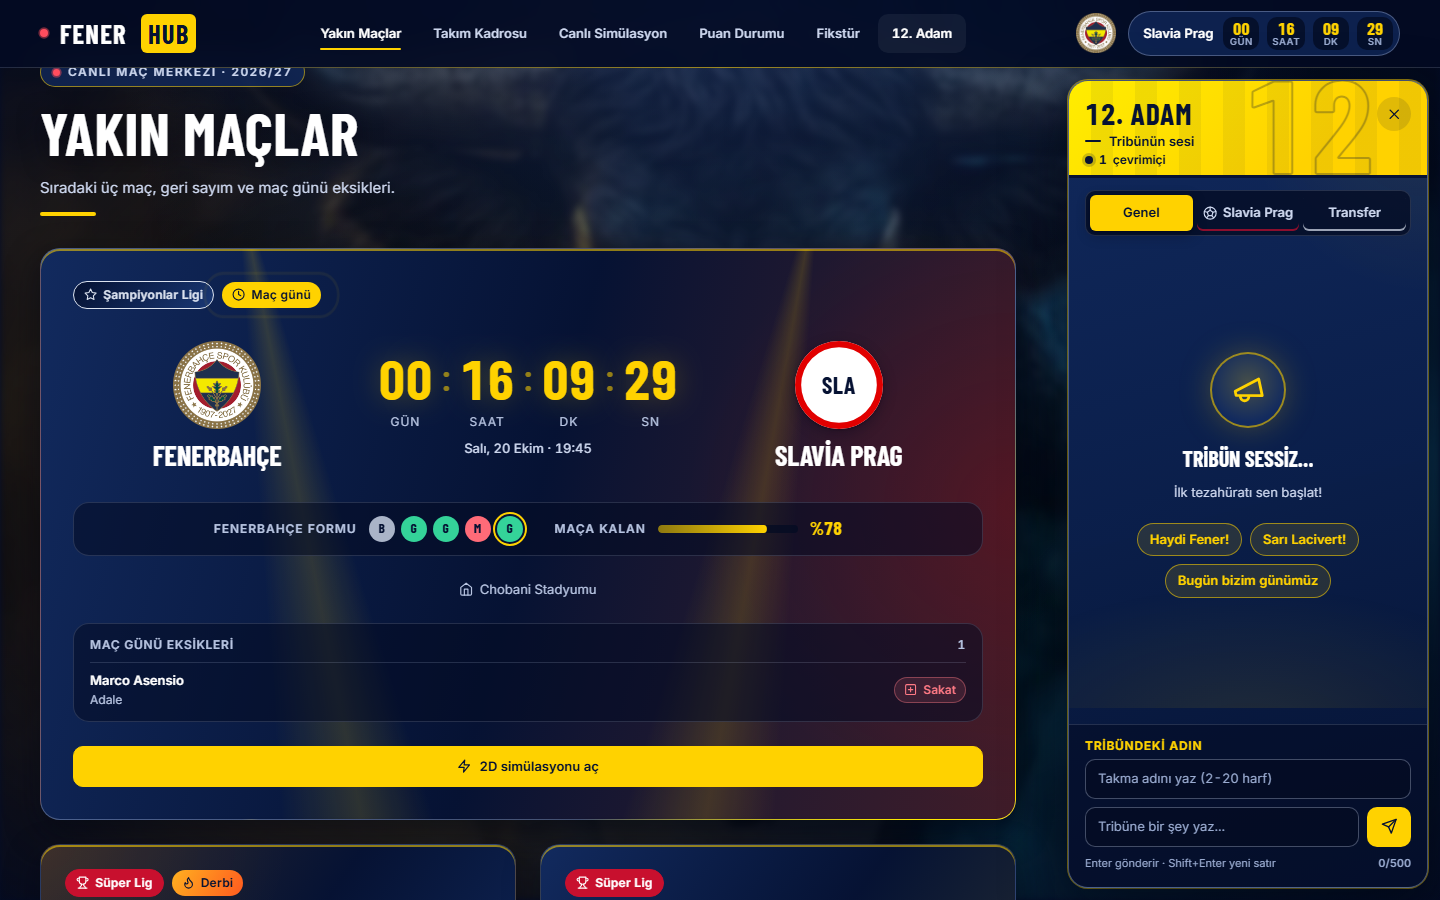
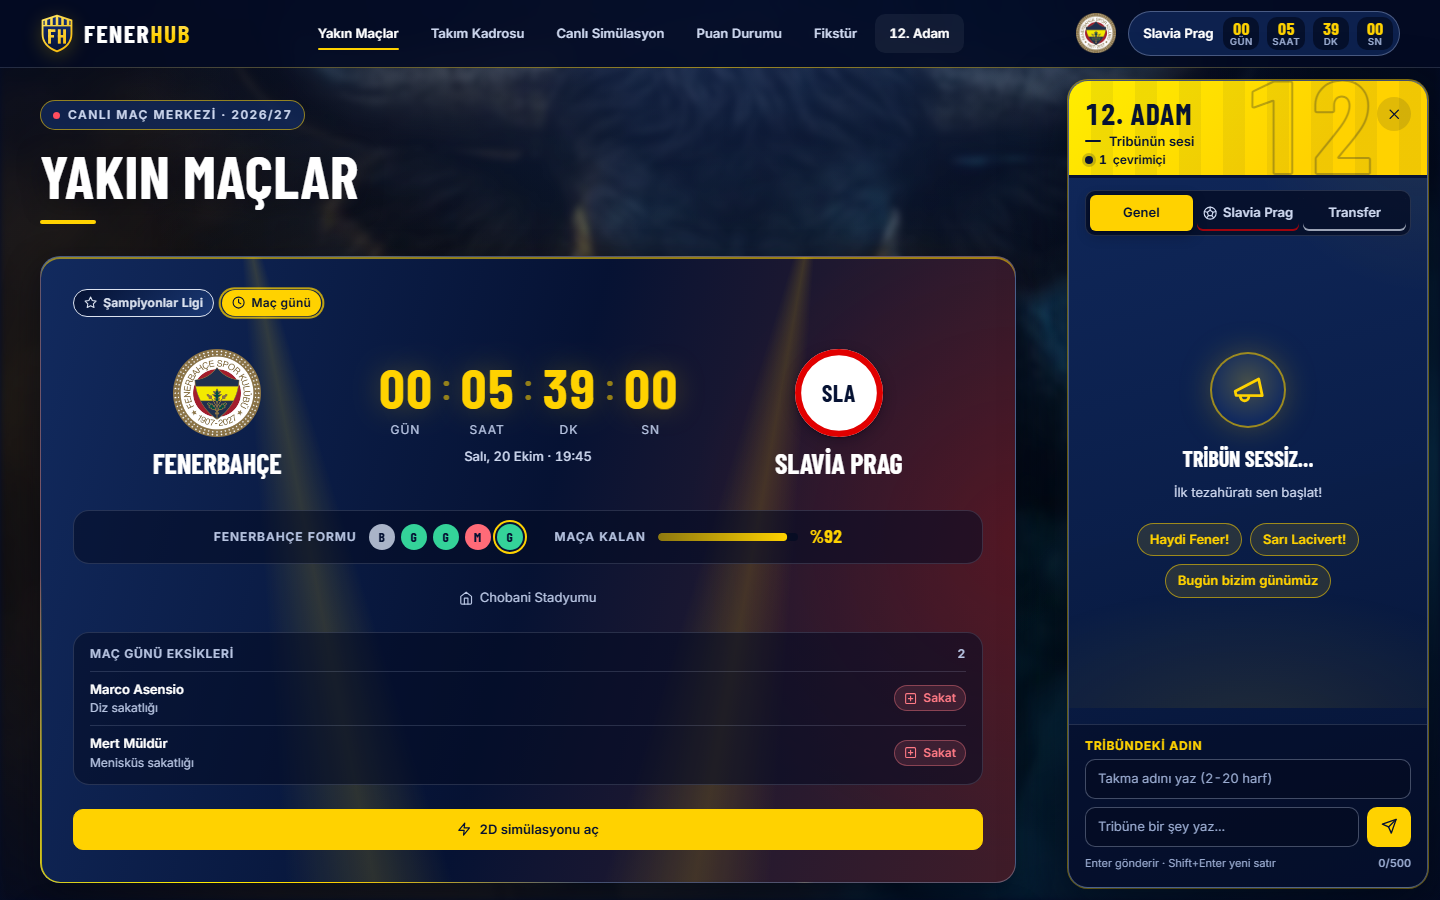
docs: README portfoy icin yeniden yazildi, guncel ekran goruntuleri
One cikan muhendislik kararlari, CI ve teknoloji rozetleri, ortam degiskenleri
tablosu, guncel API ve klasor yapisi, Ingilizce ozet. Asama 10 isaretlendi.

diff --git a/README.md b/README.md
@@ -1,53 +1,72 @@
 # FenerHub
 
-Fenerbahçe taraftarları için maç merkezi: yakın maçlar ve geri sayım, kadro istatistikleri, puan durumu, sezon fikstürü, 2D maç simülasyonu ve canlı taraftar sohbeti.
+[![CI](https://github.com/kutluktaskin/FenerHub/actions/workflows/ci.yml/badge.svg)](https://github.com/kutluktaskin/FenerHub/actions/workflows/ci.yml)
+![Python](https://img.shields.io/badge/Python-3.13-3776AB?logo=python&logoColor=white)
+![FastAPI](https://img.shields.io/badge/FastAPI-009688?logo=fastapi&logoColor=white)
+![PostgreSQL](https://img.shields.io/badge/PostgreSQL-Neon-4169E1?logo=postgresql&logoColor=white)
+![JavaScript](https://img.shields.io/badge/JavaScript-vanilla-F7DF1E?logo=javascript&logoColor=black)
+[![Lisans: MIT](https://img.shields.io/badge/Lisans-MIT-green.svg)](LICENSE)
 
-**Canlı demo:** https://fenerhub-frontend.vercel.app
-**API:** https://fenerhub.onrender.com (örnek: [`/api/matches/upcoming`](https://fenerhub.onrender.com/api/matches/upcoming), etkileşimli dokümantasyon: [`/docs`](https://fenerhub.onrender.com/docs))
+Fenerbahçe taraftarları için canlı maç merkezi: maç kartları ve geri sayım, canlı skor ve olayları gösteren
+2D maç simülasyonu, kadro istatistikleri, puan durumu, sezon fikstürü ve WebSocket ile çalışan taraftar sohbeti.
 
-> API ücretsiz Render planında çalışır; bir süre istek gelmezse uyur. İlk açılış 30–60 saniye sürebilir.
+**🔗 Canlı demo:** https://fenerhub-frontend.vercel.app
+**🔗 API:** https://fenerhub.onrender.com/docs (etkileşimli dokümantasyon)
+
+> API ücretsiz Render planında çalışır; bir süre istek gelmezse uyur, ilk açılış 30–60 saniye sürebilir.
 
 ![Ana sayfa: sıradaki maç kartı, geri sayım ve 12. Adam sohbeti](docs/screenshots/anasayfa.png)
 
-| Fikstür (takvim görünümü) | Mobil |
-|---|---|
-| ![Aylık takvim: maç günleri rakibin renginde](docs/screenshots/fikstur-takvim.png) | ![Mobil fikstür](docs/screenshots/mobil.png) |
+| 2D maç simülasyonu ve canlı anlatım | Sezon fikstürü | Mobil |
+|---|---|---|
+| ![Simülasyon: gol anı, numaralı oyuncular, anlatım akışı](docs/screenshots/simulasyon.png) | ![Fikstür: sezonun maçları yan yana, iç saha/deplasman](docs/screenshots/fikstur.png) | ![Mobil görünüm](docs/screenshots/mobil.png) |
+
+## Mühendislik açısından öne çıkanlar
+
+- **Günde 100 istekle canlı site:** SportsAPI'nin ücretsiz planına sığmak için bütçe kuralı (%60), veritabanında kalıcı API önbelleği ve işe göre değişen sorgu aralıkları. Bir maçın maliyeti ~60 istekten birkaç isteğe indi.
+- **WebSocket proxy:** Backend maç saatinde SportsAPI WebSocket'ine tek bağlantı kurar ve olayları kendi `/ws/live` kanalıyla bütün izleyicilere yayar. API anahtarı tarayıcıya gitmez. Kopmada artan beklemeyle yeniden bağlanır, uzun kesintide kotaya duyarlı REST yedeğine geçer.
+- **Shell olmadan migration:** Render'ın ücretsiz planında komut satırı olmadığı için Alembic migration'ları uygulama açılırken çalışır. Alembic öncesi veritabanı veriye dokunmadan işaretlenir.
+- **SQLite → PostgreSQL geçişi:** Veri kaybı olmadan, id'leri ve canlı forum mesajlarını koruyan tek seferlik aktarım.
+- **Proxy arkasında gerçek IP:** `X-Forwarded-For` sağdan okunur, Cloudflare ve özel ağlar atlanır; forumdaki hız sınırı sahteleme yapılamadan kullanıcı başına çalışır.
+- **Otomatik sakatlık raporu:** Kadro verisindeki eksik oyuncu listesi Türkçeye çevrilip rapora işlenir. Elle girilen kayıtlar korunur.
+- **Test ve CI:** 33 backend (pytest) ve 7 frontend (`node --test`) testi her push'ta GitHub Actions'ta çalışır.
+
+Kararların gerekçeleri ve bedelleri: **[docs/teknik-kararlar.md](docs/teknik-kararlar.md)**
 
 ## Özellikler
 
 - **Yakın maçlar:** sıradaki üç maç, canlı geri sayım, Fenerbahçe formu, maç günü eksikleri. Kartlar rakibin kulüp renklerine bürünür.
-- **Kadro:** mevkiye göre filtre, sıralanabilir maç / gol / asist istatistikleri, sakatlık ve ceza raporu.
-- **Puan durumu:** Süper Lig ve Şampiyonlar Ligi tabloları, bölge renkleri (şampiyonluk, Avrupa, düşme).
-- **Fikstür:** aylık takvim ya da liste görünümü; turnuva, iç saha / deplasman ve oynanan / kalan filtreleri.
-- **2D simülasyon:** canvas üzerinde diziliş ve top akışı; maç oynanırken gerçek olaylara tepki verir.
-- **12. Adam:** WebSocket ile canlı taraftar sohbeti; genel, transfer ve maç odaları, yanıt, tepki, kendi mesajını silme.
-- **Canlı maç (geliştiriliyor):** backend maç saatinde SportsAPI WebSocket'ine bağlanır, skoru ve olayları kendi `/ws/live` kanalından tarayıcılara aktarır. API anahtarı tarayıcıya hiç gitmez.
+- **2D maç simülasyonu:** gerçek kadro (forma numarası, isim), canlı skor ve dakika. Gol, kart, oyuncu değişikliği, VAR ve penaltı sahada canlandırılır; şablonlu spiker cümleleri ve anlatım akışı. Skor, olaylar ve kadro gerçek; oyuncu konumları temsili.
+- **Kadro:** mevkiye göre filtre, sıralanabilir maç / gol / asist istatistikleri, otomatik güncellenen sakatlık ve ceza raporu.
+- **Puan durumu:** Süper Lig ve Şampiyonlar Ligi, bölge renkleri (şampiyonluk, Avrupa, düşme).
+- **Sezon fikstürü:** bütün maçlar yan yana takvim yapraklarında (tarih, iç saha / deplasman, skor ya da saat) ya da liste görünümünde; turnuva, saha ve oynanan / kalan filtreleri.
+- **12. Adam:** WebSocket ile canlı taraftar sohbeti. Genel, transfer ve maç odaları; yanıt, tepki, kendi mesajını silme.
 
 ## Teknolojiler
 
 | Katman | Kullanılanlar |
 |---|---|
-| Backend | Python, FastAPI, SQLAlchemy 2, Alembic, WebSocket (`websockets`), pytest |
+| Backend | Python 3.13, FastAPI, SQLAlchemy 2, Alembic, `websockets`, pytest |
 | Veritabanı | PostgreSQL (Neon), yerelde SQLite |
-| Frontend | Vanilla JavaScript, HTML, CSS (container queries, `:has()`, View Transitions, Popover API), GSAP, Canvas |
+| Frontend | Vanilla JavaScript, HTML, CSS (container queries, `:has()`, View Transitions, Popover API), Canvas, GSAP |
 | Veri | SportsAPI Pro (REST + WebSocket) |
-| Barındırma | Render (API), Vercel (statik site) |
+| Altyapı | Render (API), Vercel (statik site), GitHub Actions (CI) |
 
 ## Mimari
 
 ```mermaid
 flowchart LR
-    subgraph Kaynak
-        REST[SportsAPI Pro REST<br/>günlük kota]
-        WS[SportsAPI Pro WebSocket<br/>kotasız, canlı maç]
+    subgraph Kaynak["SportsAPI Pro"]
+        REST[REST<br/>günlük kota]
+        WS[WebSocket<br/>kotasız, canlı maç]
     end
     subgraph Render["Render · FastAPI"]
-        SYNC[auto_sync<br/>periyodik senkron]
+        SYNC[auto_sync<br/>bütçeli periyodik senkron]
         LIVE[live<br/>maç saatinde bağlanır]
-        API[REST uçları<br/>/api/...]
+        API[REST uçları /api/...]
         HUB[/ws/live · /ws/forum/]
     end
-    DB[(Neon Postgres<br/>maçlar, kadro, forum,<br/>api_cache)]
+    DB[(Neon Postgres<br/>maçlar, kadro, sakatlıklar,<br/>forum, api_cache)]
     WEB[Vercel · Vanilla JS]
 
     REST --> SYNC --> DB
@@ -58,45 +77,53 @@ flowchart LR
     HUB <-->|WebSocket| WEB
 ```
 
-- **Kota yönetimi:** SportsAPI'nin ücretsiz planı günde 100 istek verir. Her cevap veritabanındaki `api_cache` tablosunda saklanır; sunucu uyuyup uyandığında aynı veri tekrar çekilmez. Canlı maç WebSocket'ten geldiği için maç sırasında REST isteği atılmaz.
-- **Şema:** Alembic migration'ları uygulama açılırken çalışır (Render'ın ücretsiz planında komut satırı olmadığı için).
-- **Gerçek kullanıcı IP'si:** Render ve Cloudflare proxy'lerinin arkasında `X-Forwarded-For` sağdan okunur; forumdaki hız sınırı kullanıcı başına çalışır.
+## Yerelde çalıştırma
 
-## Kurulum (yerel)
-
-Gerekenler: Python 3.12+, bir SportsAPI Pro anahtarı (ücretsiz plan yeterli).
+Gerekenler: Python 3.12+, Node 18+ (sadece frontend testleri için), bir SportsAPI Pro anahtarı (ücretsiz plan yeterli).
 
 ```bash
 cd backend
 python -m venv venv
-venv\Scripts\activate            # macOS/Linux: source venv/bin/activate
+venv\Scripts\activate              # macOS/Linux: source venv/bin/activate
 pip install -r requirements-dev.txt
 
-copy .env.example .env           # macOS/Linux: cp .env.example .env
+copy .env.example .env             # macOS/Linux: cp .env.example .env
 # .env içine SPORTS_API_KEY yazın; DATABASE_URL boş kalırsa yerel SQLite kullanılır
 
 uvicorn app.main:app --reload --port 8000
 ```
 
-Frontend'i ayrı bir terminalde statik olarak sunun (site `localhost`'ta açılınca API olarak otomatik `http://127.0.0.1:8000` kullanır):
+Frontend'i ayrı bir terminalde statik olarak sunun. Site `localhost`'ta açılınca API olarak otomatik `http://127.0.0.1:8000` kullanır:
 
 ```bash
 cd frontend
-python -m http.server 5500
-# http://localhost:5500
+python -m http.server 5500         # http://localhost:5500
 ```
 
-Testler: `cd backend && python -m pytest` (backend), `node --test "frontend/tests/*.test.cjs"` (frontend, kök klasörde; ek paket gerekmez)
+### Testler
+
+```bash
+cd backend && python -m pytest                # backend
+node --test "frontend/tests/*.test.cjs"       # frontend (kök klasörde, ek paket gerekmez)
+```
 
 ### Elle çalıştırılan araçlar (backend klasöründe)
 
 | Komut | Ne yapar |
 |---|---|
 | `python -m app.sync` | Maçları, kadroyu, istatistikleri ve puan durumunu API'den çeker (`--offline`: sadece önbellek, istek atmaz) |
-| `python -m scripts.add_absence liste` | Sakatlık / ceza kayıtlarını listeler; `ekle` ve `sil` alt komutları da var |
+| `python -m scripts.add_absence liste` | Sakatlık ve ceza kayıtlarını listeler; `ekle` ve `sil` alt komutları da var |
 | `python -m scripts.download_logos --dry-run` | Eksik takım logolarını sayar; parametresiz çalışınca indirir (her logo 1 istek) |
 | `python -m scripts.migrate_to_postgres --dry-run` | Yerel SQLite verisini Postgres'e aktarır (tek seferlik) |
 | `python -m scripts.seed` | **Veritabanını siler** ve eski örnek verileri yükler; onay ister, canlıda kullanılmaz |
+
+### Ortam değişkenleri
+
+| Değişken | Açıklama |
+|---|---|
+| `SPORTS_API_KEY` | SportsAPI Pro anahtarı. Sadece backend'de; tarayıcıya gitmez. |
+| `DATABASE_URL` | Postgres adresi (Neon pooled). Boşsa yerel SQLite. |
+| `RENDER` | Render'ın kendisi tanımlar; Render'da SQLite'a düşülürse log'a uyarı yazdırır. |
 
 ## API uç noktaları
 
@@ -106,14 +133,14 @@ Testler: `cd backend && python -m pytest` (backend), `node --test "frontend/test
 | GET | `/api/matches` | Sezonun bütün maçları (`?competition=super_lig\|uefa`) |
 | GET | `/api/matches/upcoming` | Sıradaki maçlar ve maç günü eksikleri |
 | GET | `/api/matches/{id}` | Tek maç |
-| GET | `/api/matches/{id}/detail` | Olaylar, istatistikler, kadrolar (önbellekten) |
+| GET | `/api/matches/{id}/detail` | Olaylar, istatistikler, kadrolar (önbellekten, istek atmaz) |
 | GET | `/api/squad` | Kadro ve sezon istatistikleri |
-| GET | `/api/absences` | Sakatlık ve ceza raporu |
+| GET | `/api/absences` | Sakatlık ve ceza raporu (`source`: `api` / `manual`) |
 | GET | `/api/standings/{super_lig\|uefa}` | Puan durumu |
 | GET | `/api/live` | Canlı maç durumu (WebSocket açamayan istemciler için) |
 | WS | `/ws/live` | Canlı skor, olaylar, gol bildirimi |
 | GET | `/api/forum/posts?room=genel` | Oda mesajları |
-| POST | `/api/forum/posts` | Mesaj gönder |
+| POST | `/api/forum/posts` | Mesaj gönder (IP başına 4 sn sınır) |
 | POST | `/api/forum/posts/{id}/react` | Tepki (🔥 / ❤) |
 | POST | `/api/forum/posts/{id}/delete` | Kendi mesajını sil |
 | GET | `/api/forum/next-match` | Açık maç odası |
@@ -124,39 +151,38 @@ Testler: `cd backend && python -m pytest` (backend), `node --test "frontend/test
 ```
 FenerHub/
 ├── backend/
-│   ├── app/                 FastAPI uygulaması
-│   │   ├── main.py          uygulama, CORS, açılış işleri
-│   │   ├── database.py      bağlantı (Postgres ya da SQLite)
-│   │   ├── models.py        SQLAlchemy modelleri
-│   │   ├── sync.py          SportsAPI -> veritabanı
-│   │   ├── auto_sync.py     periyodik senkron
-│   │   ├── live.py          canlı maç WebSocket istemcisi, /ws/live
-│   │   ├── cache.py         API önbelleği (api_cache tablosu)
-│   │   ├── forum.py         12. Adam sohbeti
-│   │   ├── net.py           proxy arkasında gerçek istemci IP'si
-│   │   ├── migrate.py       açılışta Alembic migration'ları
-│   │   └── routers/         matches, squad, standings, absences
-│   ├── migrations/          Alembic sürümleri
-│   ├── scripts/             elle çalıştırılan araçlar
-│   ├── tests/               pytest
-│   ├── alembic.ini
-│   ├── requirements.txt
-│   └── .env.example
+│   ├── app/
+│   │   ├── main.py            uygulama, CORS, açılışta migration ve arka plan işleri
+│   │   ├── database.py        bağlantı (Postgres ya da SQLite)
+│   │   ├── models.py          SQLAlchemy modelleri
+│   │   ├── sync.py            SportsAPI -> veritabanı
+│   │   ├── auto_sync.py       bütçeli periyodik senkron
+│   │   ├── live.py            canlı maç WebSocket istemcisi ve /ws/live
+│   │   ├── absences_sync.py   eksik oyuncu listesinden otomatik sakatlık raporu
+│   │   ├── cache.py           API önbelleği (api_cache tablosu)
+│   │   ├── forum.py           12. Adam sohbeti
+│   │   ├── net.py             proxy arkasında gerçek istemci IP'si
+│   │   ├── migrate.py         açılışta Alembic migration'ları
+│   │   └── routers/           matches, squad, standings, absences
+│   ├── migrations/            Alembic sürümleri (0001–0004)
+│   ├── scripts/               elle çalıştırılan araçlar
+│   ├── tests/                 pytest
+│   └── requirements.txt       sabit sürümler
 ├── frontend/
 │   ├── index.html
 │   ├── css/style.css
-│   ├── js/                  api, forum, matchEngine (2D simülasyon), fx, nav, background
-│   ├── img/                 logolar
-│   └── frames/              kaydırmaya bağlı arka plan animasyonu kareleri
-├── tools/extract.py         videolardan arka plan karesi çıkarma (geliştirme aracı)
-├── docs/                    yol haritası ve ekran görüntüleri
-├── LICENSE
-└── README.md
+│   ├── js/                    api, matchEngine (simülasyon), commentary (anlatıcı), forum, fx, nav
+│   ├── tests/                 node --test
+│   ├── img/                   logolar ve favicon
+│   └── frames/                kaydırmaya bağlı arka plan animasyonu kareleri
+├── tools/extract.py           videolardan arka plan karesi çıkarma (geliştirme aracı)
+├── docs/                      teknik kararlar, yol haritası, ekran görüntüleri
+└── .github/workflows/ci.yml   GitHub Actions
 ```
 
 ## Yol haritası
 
-Planlanan ve tamamlanan aşamalar: [docs/ROADMAP.md](docs/ROADMAP.md)
+Tamamlanan ve planlanan aşamalar: [docs/ROADMAP.md](docs/ROADMAP.md). Sıradakiler: maç sonu özeti ve maç tekrarı, skor tahmin oyunu, istatistik modeliyle tahmin rakibi, PWA.
 
 ## Not
 
@@ -170,10 +196,10 @@ Bu site Fenerbahçe SK ile resmi bir bağlantısı olmayan bir taraftar projesid
 
 ## English summary
 
-**FenerHub** is a fan-made match center for Fenerbahçe: upcoming fixtures with countdowns, squad statistics, league tables, a monthly fixture calendar, a 2D canvas match simulation and a real-time fan chat over WebSockets.
+**FenerHub** is a fan-made live match center for Fenerbahçe: match cards with countdowns, a 2D canvas match simulation driven by live events, squad statistics, league tables, a season fixture strip and a real-time fan chat over WebSockets.
 
-- **Backend:** FastAPI, SQLAlchemy, Alembic, PostgreSQL (Neon), deployed on Render. A background sync pulls data from SportsAPI Pro within a 100-requests/day free quota by caching every response in the database. During a match the backend connects to SportsAPI's WebSocket (quota-free) and relays live scores to browsers through its own `/ws/live` channel, so the API key never reaches the client.
-- **Frontend:** framework-free JavaScript, modern CSS (container queries, `:has()`, View Transitions, Popover API), GSAP and Canvas, deployed on Vercel.
-- **Run locally:** see *Kurulum* above (`uvicorn app.main:app` in `backend/`, any static server in `frontend/`).
+- **Backend:** FastAPI, SQLAlchemy, Alembic, PostgreSQL (Neon), deployed on Render. Fits a 100-requests/day free API plan with a request budget, a database-backed response cache and adaptive polling. During a match it opens a single quota-free WebSocket to the data provider and fans the events out to all browsers through its own `/ws/live` channel, so the API key never reaches the client. Migrations run at startup because the free host has no shell.
+- **Frontend:** framework-free JavaScript and modern CSS on Vercel. The simulation animates real goals, cards, substitutions and VAR decisions; a template-based commentator writes Turkish play-by-play lines from the real event data.
+- **Quality:** 33 backend and 7 frontend tests on every push via GitHub Actions. Design decisions and trade-offs: [docs/teknik-kararlar.md](docs/teknik-kararlar.md) (Turkish).
 
 This is an unofficial fan project with no affiliation to Fenerbahçe SK.

diff --git a/docs/ROADMAP.md b/docs/ROADMAP.md
@@ -95,9 +95,12 @@
 - [ ] Lighthouse: performans, erişilebilirlik ve SEO 90'ın altındaysa iyileştir. 400 karelik arka plan animasyonunu özellikle kontrol et.
 
 ## Aşama 10: Portföy
-- [ ] README'yi güncelle: tüm özellikler, mimari diyagramı (Mermaid), ekran görüntüsü ve demo GIF'i için yer, kurulum, ortam değişkenleri tablosu, API uç noktaları, test komutu.
-- [ ] docs/ altına kısa bir "Teknik kararlar" notu: neden WebSocket proxy, neden Postgres, istek bütçesi nasıl yönetildi.
-- [ ] .env.example güncel olsun.
+- [x] README'yi güncelle: tüm özellikler, mimari diyagramı (Mermaid), ekran görüntüsü ve demo GIF'i için yer, kurulum, ortam değişkenleri tablosu, API uç noktaları, test komutu.
+  - "Mühendislik açısından öne çıkanlar" bölümü, CI ve teknoloji rozetleri, 4 güncel ekran görüntüsü (docs/screenshots), İngilizce özet. Demo GIF'i henüz yok (canlı maç kaydından sonra eklenebilir).
+- [x] docs/ altına kısa bir "Teknik kararlar" notu: neden WebSocket proxy, neden Postgres, istek bütçesi nasıl yönetildi.
+  - docs/teknik-kararlar.md: 8 karar (sorun, çözüm, bedel) + test/CI. Ayrıca .github/workflows/ci.yml: her push'ta pytest ve node --test.
+- [x] .env.example güncel olsun.
+  - SPORTS_API_KEY ve DATABASE_URL (temizlik aşamasında eklendi); README'de ortam değişkenleri tablosu.
 
 ## Aşama 11: Akıllı içerik (ücretsiz)
 Ücretli yapay zekâ API'si kullanılmaz. İçerik kural, şablon ve istatistik modeliyle üretilir; tamamen
